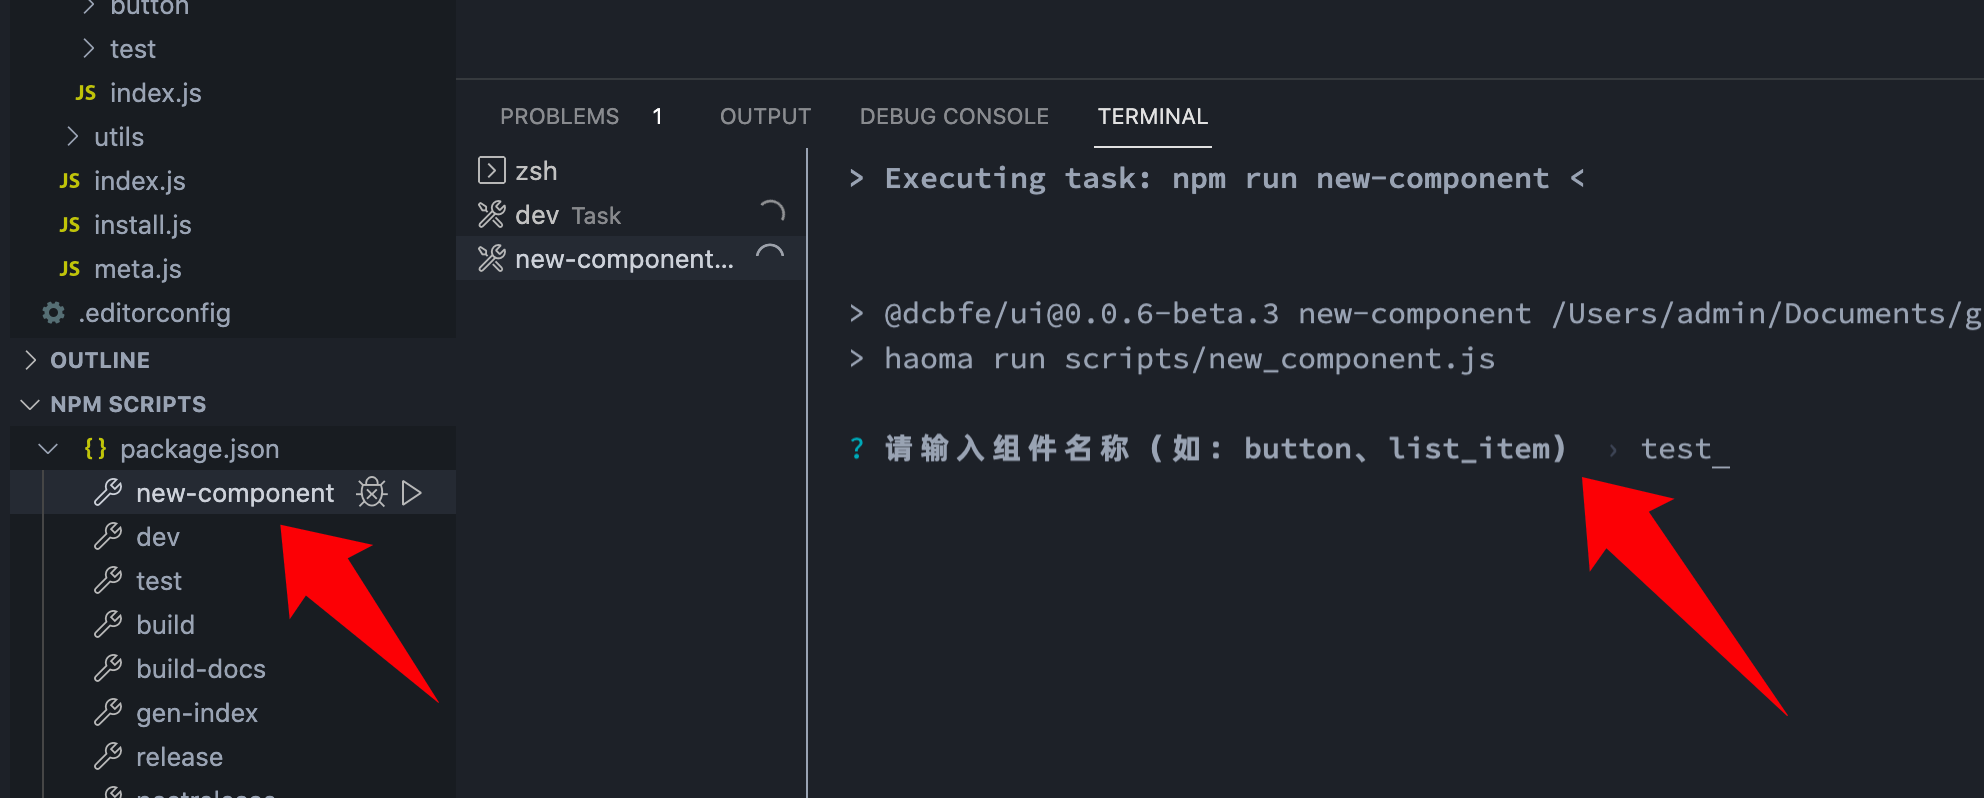
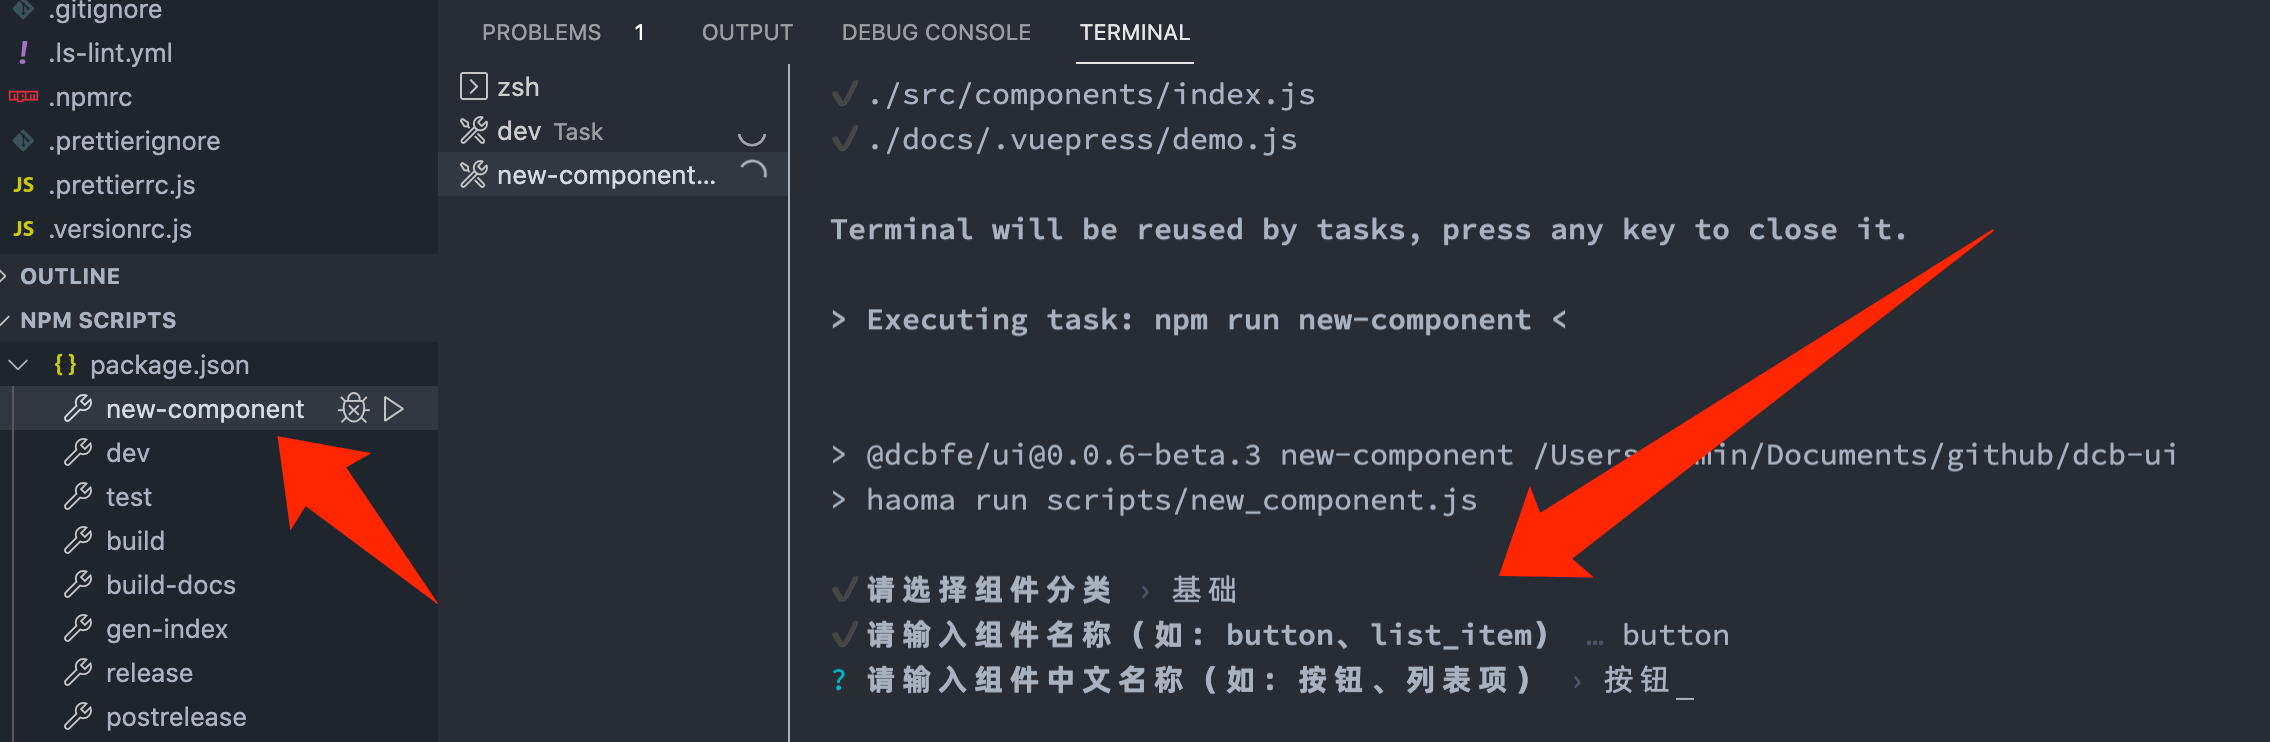
docs: 完善贡献流程

diff --git a/docs/guide/index.md b/docs/guide/index.md
@@ -45,6 +45,22 @@ Vue.use(Icon);
 
 ## 参与贡献
 
+::: tip 前置要求
+
+- 使用 [VSCode](https://code.visualstudio.com/docs) 作为 IDE。
+
+  若尚未安装 VSCode，[可进入此处下载](https://code.visualstudio.com/download)。
+
+- 使用 [Yarn](https://classic.yarnpkg.com/lang/en/) 作为包管理工具。
+
+  若尚未安装 Yarn，可这样安装：
+
+  ```bash
+  npm i yarn -g --registry https://r.npm.taobao.org/
+  ```
+
+:::
+
 ### 1、Fork 仓库
 
 打开 [dcb-fe/dcb-ui](https://github.com/dcb-fe/dcb-ui)，点击右上角 Fork 按钮：
@@ -67,31 +83,19 @@ Vue.use(Icon);
 
 <img class="x-paste-image" src="./images/clone.png" width="800" />
 
-### 3、初始化项目
+### 3、创建分支
 
-::: tip 前置要求
+在项目中以 `master` 为基础创建分支，分支名最好以 `类型/作用域` 命名，如 `feat/button`、`fix/button`、`feat/icon`、`fix/icon` 等等。
 
-- 使用 [VSCode](https://code.visualstudio.com/docs) 作为 IDE。
+### 4、初始化项目
 
-  若尚未安装 VSCode，[可进入此处下载](https://code.visualstudio.com/download)。
-
-- 使用 [Yarn](https://classic.yarnpkg.com/lang/en/) 作为包管理工具。
-
-  若尚未安装 Yarn，可这样安装：
-
-  ```bash
-  npm i yarn -g --registry https://r.npm.taobao.org/
-  ```
-
-:::
-
-在 VSCode 打开刚刚克隆的项目，然后在控制台输入 `yarn` 开始安装依赖：
+切换去创建好的分支，在控制台输入 `yarn` 开始安装依赖：
 
 <img class="x-paste-image" src="./images/install.png" width="800" />
 
 依赖安装完成后项目就初始化完毕了。
 
-### 4、开始开发
+### 5、开始开发
 
 点击命令 `dev` 启动文档：
 
@@ -101,8 +105,86 @@ Vue.use(Icon);
 
 <img class="x-paste-image" src="./images/docs-component.png" width="800" />
 
-### 5、添加组件
+### 6、添加组件
 
-点击命令 `new-component` 输入要添加的组件名后回车：
+点击命令 `new-component` 选择组件分类、输入组件名、输入组件中文名后回车：
 
 <img class="x-paste-image" src="./images/new-component.png" width="800" />
+
+添加后的组件相关文件在 `src/components` 目录下。
+
+### 7、编写组件
+
+组件编写与日常开发无异，不过为了方便行事，做一些约定：
+
+- 若组件有属性、插槽、事件，必须在组件定义时显式声明（目的在于方便组件 API 文档生成）。
+- 组件样式采用 CSS Modules 设计，在组件模板中以 `_.类名` 引用具体类名（目的在于方便样式书写）。
+
+以上约定的具体示例请参考 `src/components/button/button.vue`。
+
+### 8、编写文档
+
+组件文档位于组件同级目录下的同名 `.md` 文件中。
+
+组件文档的具体示例请参考 `src/components/button/button.md`。
+
+### 9、测试组件
+
+组件测试逻辑位于组件同级目录下的同名 `.test.js` 文件中。
+
+测试的目的就是让开发者敢加新功能（既有测试可告诉你这个新功能会不会产生 bug），让使用者敢采用（完善的测试说明这个东西基本没有什么大 bug）。
+
+总体基于 [Jest](https://jestjs.io/zh-Hans/)、[Vue Test Utils](https://vue-test-utils.vuejs.org/zh/installation/testing-single-file-components-with-jest.html)。
+
+- **逻辑**：采用单元测试。
+- **视图**：采用快照测试。
+- **样式**：不测试，由 UI 进行验收。
+
+组件测试的具体示例请参考 `src/components/button/button.test.js`。
+
+### 10、Git 提交
+
+Git 提交前会对代码进行如下检查，有一项不通过都会被阻止：
+
+- 代码质量检查（通过 ESLint）；
+- 文件命名检查（通过 lslint）：
+
+  `src` 目录下的所有子目录、文件遵循下划线命名风格。举例：
+
+  ```bash
+  button
+  list_item
+  __demo__
+  ```
+
+- Git 提交信息格式检查（通过 commitlint）：
+
+  遵循 [约定式提交](https://www.conventionalcommits.org/zh-hans/v1.0.0/) 规范。举例：
+
+  ```bash
+  # 新增特性
+  feat: 新增 Button 组件
+
+  # 解决 bug
+  fix(Button): 点击应该触发 click 事件
+
+  # 文档
+  docs(Button): 完善 size 属性的描述
+
+  # 杂项
+  chore: 清理无用代码
+  ```
+
+若你的提交被阻止，请打开 Git 输出查看具体错误并改正后再次提交：
+
+<img class="x-paste-image" src="./images/git-output.png" width="800" />
+
+### 11、请求合并
+
+将代码提交后，可到 GitHub 发起合并请求：
+
+<img class="x-paste-image" src="./images/pr1.png" width="800" />
+
+接着填写请求标题、请求内容，点击 `Create pull request`：
+
+<img class="x-paste-image" src="./images/pr2.png" width="800" />
